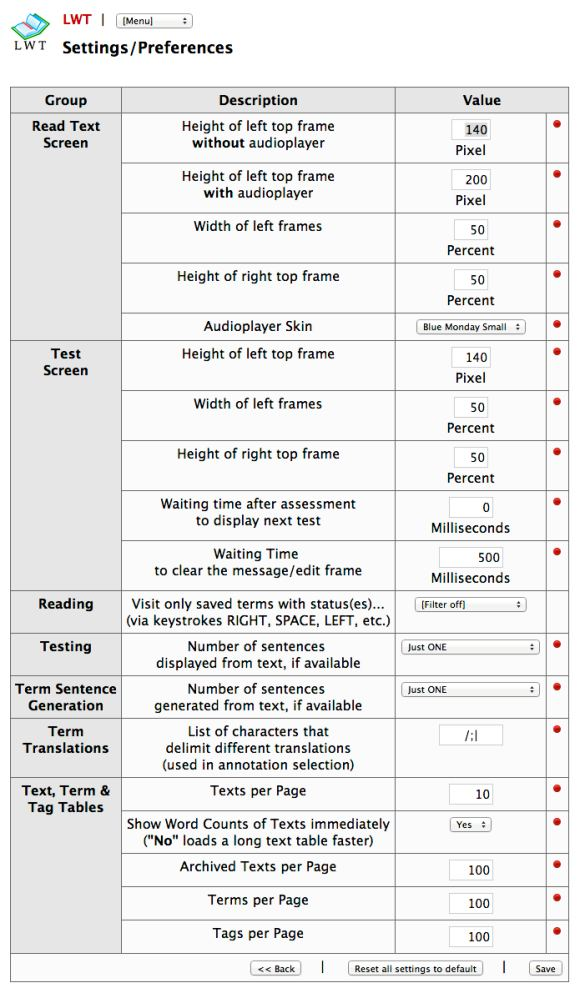
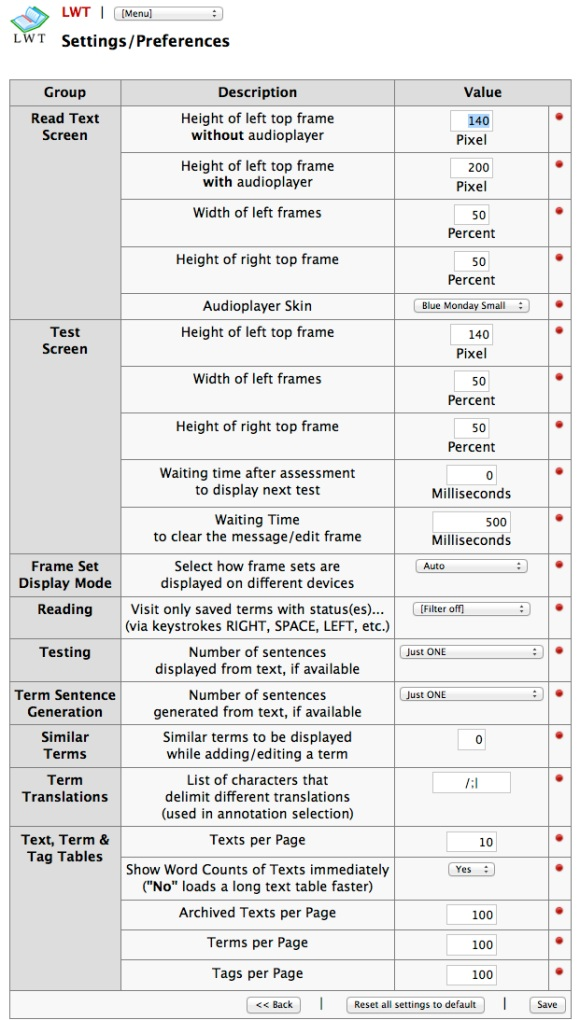
Version 1.5.18 (02-Sep-2014 15:20)

Changed region(s): [[0.0, 0.0, 0.9931, 0.999], [0.0621, 0.3122, 0.1552, 0.3746]]

diff --git a/info.htm b/info.htm
@@ -432,7 +432,7 @@ $(document).ready( function() {
           </li>
 
           <li><b><u>MOST IMPORTANT:</u><br /><br /> To run LWT, you'll need: </b><br /><br />
-          <b>(1) A modern web browser.</b><ul><li>Windows: Use <a href="http://www.google.com/chrome/" target="_blank">Chrome</a> or <a href="http://www.mozilla.org/firefox" target="_blank">Firefox</a>. - MS Internet Explorer is not recommended.</li><li>Mac OS X: Use Safari, <a href="http://www.google.com/chrome/" target="_blank">Chrome</a> or <a href="http://www.mozilla.org/firefox" target="_blank">Firefox</a> (Adobe Flash must be installed and enabled for MP3 playback in Firefox). </li><li>Linux: Use <a href="http://www.google.com/chrome/" target="_blank">Chrome</a> or <a href="http://www.mozilla.org/firefox" target="_blank">Firefox</a> (Adobe Flash must be installed and enabled for MP3 playback in Firefox). - Other browsers are not recommended.</li></ul><b>Remark:</b> Firefox needs the <a href="https://addons.mozilla.org/de/firefox/addon/html-ruby/" target="_blank">HTML Ruby Add-On</a> to display ruby markup properly.<br /><br />
+          <b>(1) A modern web browser.</b><br />I recommend (in this order) <ul><li><a href="http://www.google.com/chrome/" target="_blank">Chrome</a>, </li><li><a href="http://www.mozilla.org/firefox/" target="_blank">Firefox</a>, </li><li><a href="http://www.apple.com/safari/" target="_blank">Safari</a>, or </li><li><a href="http://windows.microsoft.com/en-us/internet-explorer/download-ie" target="_blank">Internet Explorer 11+</a>.</li></ul>If MP3 audio playback doesn't work, consider switching to a different browser or install Adobe Flash.<br />Firefox needs the <a href="https://addons.mozilla.org/de/firefox/addon/html-ruby/" target="_blank">HTML Ruby Add-On</a> to display ruby markup (i. e. to display annotations above a text) properly.<br /><br />
           <b>(2) A local web server.</b><br />An easy way to install a local web server are preconfigured packages like<ul><li><a href="http://www.easyphp.org/" target="_blank">EasyPHP</a> (Windows), or </li><li><a href="http://mamp.info/en/index.html" target="_blank">MAMP</a> (Mac OS X), or</li><li>a <a href="http://en.wikipedia.org/wiki/LAMP_%28software_bundle%29" target="_blank">LAMP (Linux-Apache-MySQL-PHP) server</a> (Linux).</li></ul><br />
           <b>(3) The LWT Application.</b><br />The ZIP Archive can be downloaded <a href="http://sourceforge.net/projects/lwt/files/" target="_blank">here</a>.<br />The installation is explained<ul><li><a href="#installwin">here (Windows)</a>,</li><li><a href="#installmac">here (Mac OS X)</a> and</li><li><a href="#installlnx">here (Ubuntu, LinuxMint, etc.)</a>.</li></ul>
           <br />
@@ -2372,7 +2372,7 @@ $(document).ready( function() {
       <dd>
         <ul>
         	<li>1.5.18 (September ?? 2014):</br />
-        	Possibility to display similar terms while creating/editing a term. This will give you more language insight, and may ease inputting new terms. The number of displayed similar terms can be set from 0 (old behavior, default) to 9 on the "Settings" page. Clicking on a similar term will copy the translation and romanization into the form fields for further editing.</br />
+        	Possibility to display similar terms while creating/editing a term. This will give you more language insight, and may ease inputting new terms. The number of displayed similar terms can be set from 0 (old behavior, default) to 9 on the "Settings" page. Clicking on the green icon in front of a similar term will copy the translation and romanization into the form fields for further editing. Important: if you want to use this new feature, you must change the setting "Similar terms to be displayed while adding/editing a term" to a value > 0. It will make more sense to do this if you have already many saved terms (> 1000). If you start with a language and have only a few terms, no or not very similar terms will be normally displayed.</br />
         	"https://" dictionary URIs are now allowed. Checking of dictionary URIs has been improved. Glosbe dictionary page has been improved with a simple form to change the term and do a requery.</br />
         	Documentation updated.</br />
         	</br />
